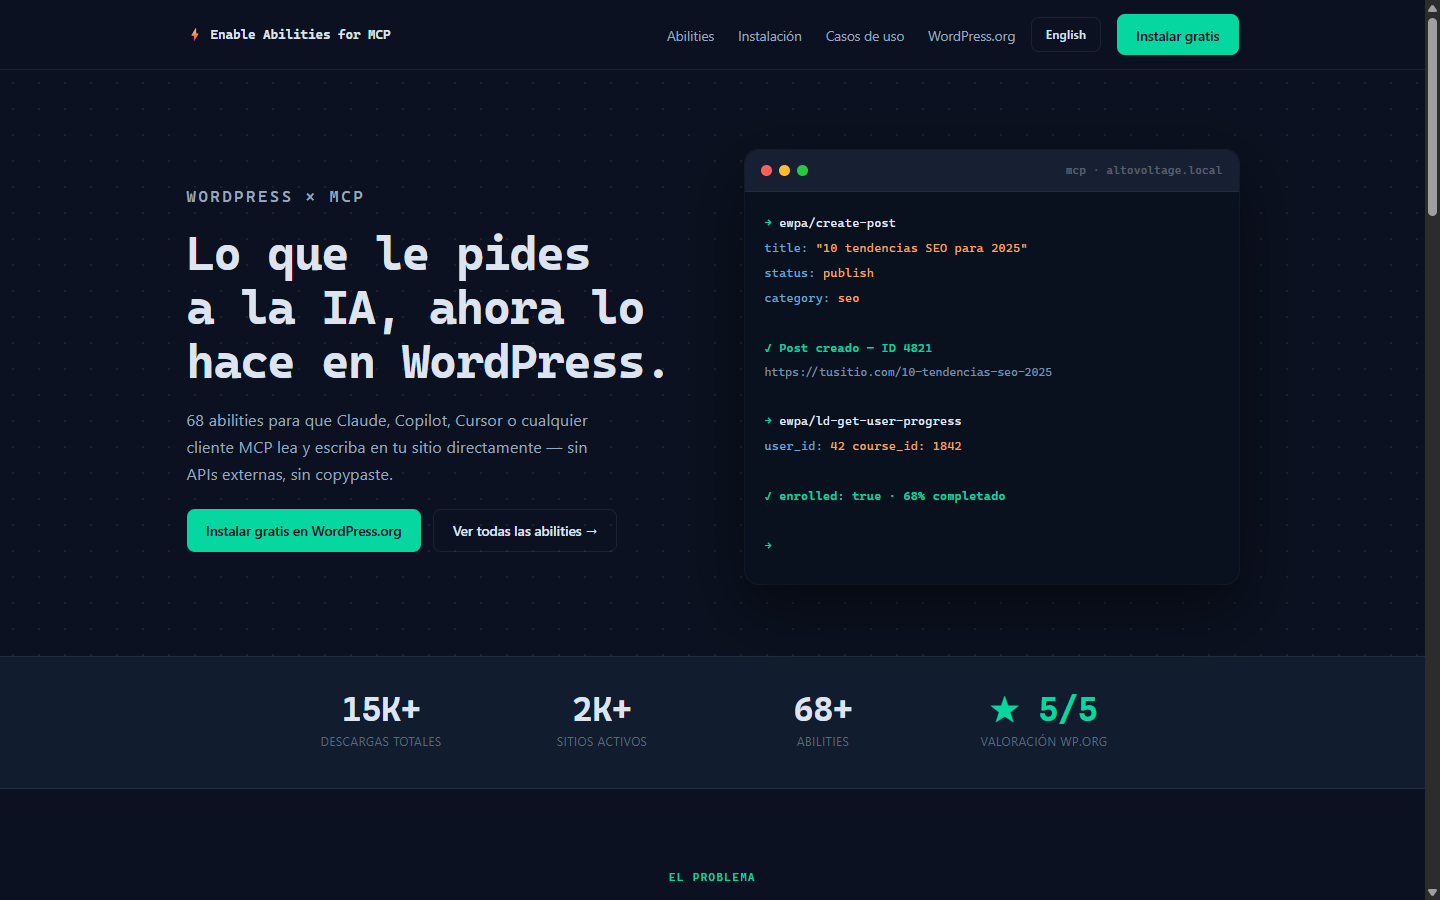
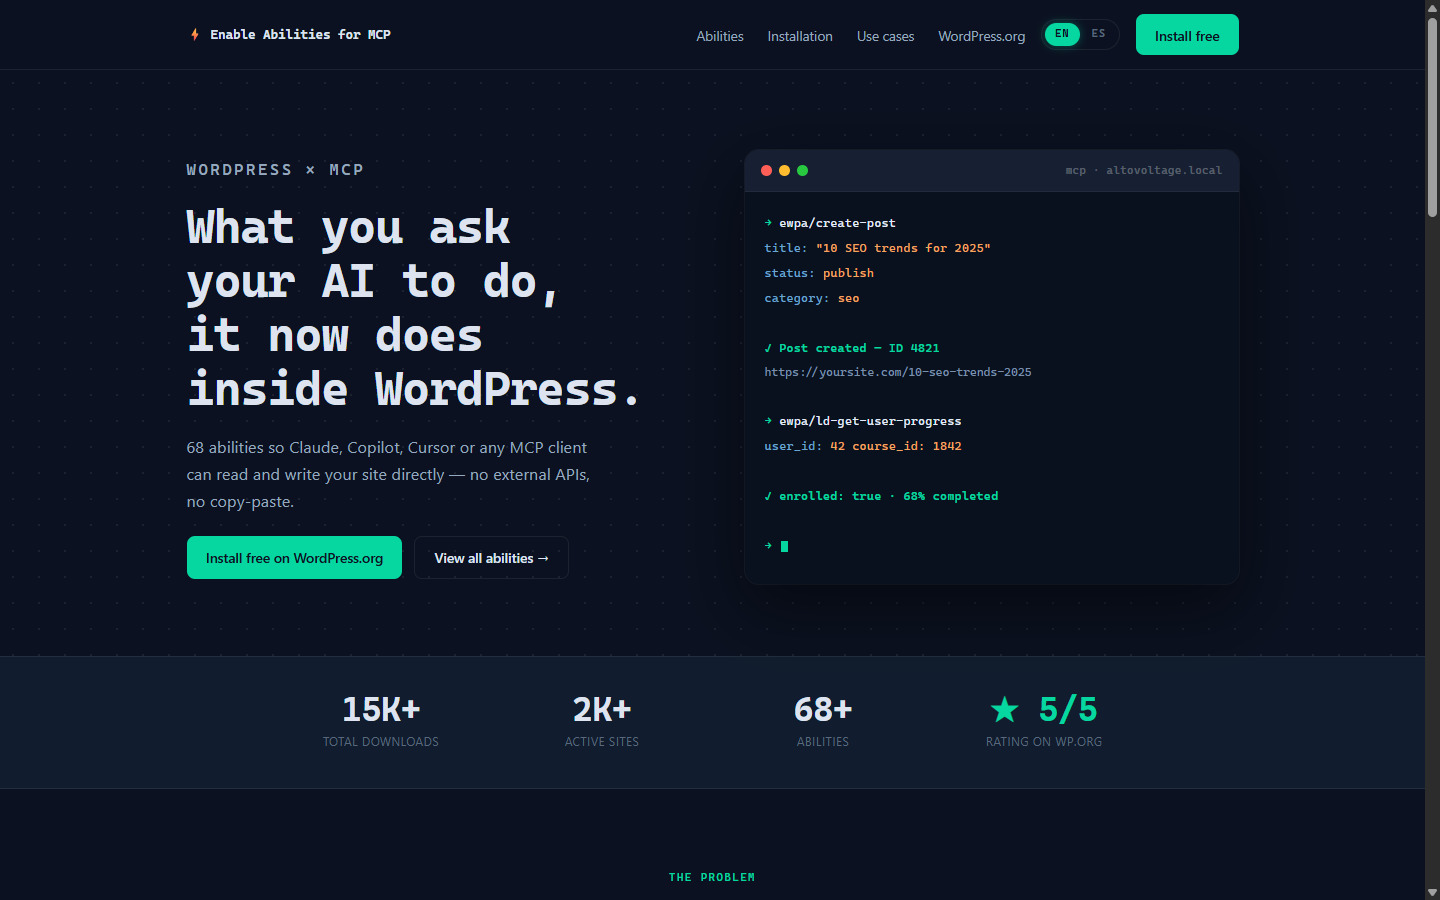
feat(i18n): make English the default locale and add EN/ES nav toggle

diff --git a/src/i18n/es.ts b/src/i18n/es.ts
@@ -14,7 +14,6 @@ export const es = {
       { label: 'WordPress.org', href: 'https://wordpress.org/plugins/enable-abilities-for-mcp/', external: true },
     ],
     cta: 'Instalar gratis',
-    langSwitch: { label: 'English', href: '/en/' },
   },
   hero: {
     eyebrow: 'WordPress × MCP',
@@ -145,6 +144,6 @@ export const es = {
       { label: 'LinkedIn',      href: 'https://www.linkedin.com/in/fabio-montenegro/' },
     ],
   },
-} as const;
+};
 
 export type LandingT = typeof es;

diff --git a/src/i18n/en.ts b/src/i18n/en.ts
@@ -16,7 +16,6 @@ export const en: LandingT = {
       { label: 'WordPress.org', href: 'https://wordpress.org/plugins/enable-abilities-for-mcp/', external: true },
     ],
     cta: 'Install free',
-    langSwitch: { label: 'Español', href: '/' },
   },
   hero: {
     eyebrow: 'WordPress × MCP',

diff --git a/CLAUDE.md b/CLAUDE.md
@@ -52,8 +52,8 @@ src/
     CTA.astro
     Footer.astro
   pages/
-    index.astro        # ES route (/)
-    en/index.astro     # EN route (/en/)
+    index.astro        # EN route (/) — default language
+    es/index.astro     # ES route (/es/)
 ```
 
 ## i18n Pattern
@@ -70,11 +70,13 @@ const { t } = Astro.props;
 
 Pages pass the locale object down:
 ```astro
-// src/pages/index.astro  → import { es } from '../i18n/es'; const t = es;
-// src/pages/en/index.astro → import { en } from '../../i18n/en'; const t = en;
+// src/pages/index.astro  → import { en } from '../i18n/en'; const t = en;
+// src/pages/es/index.astro → import { es } from '../../i18n/es'; const t = es;
 ```
 
-To add a new language: create `src/i18n/fr.ts` implementing `LandingT`, add `src/pages/fr/index.astro`.
+English is the default language at `/`; Spanish lives at `/es/`. The old `/en/` URL redirects to `/` (see `redirects` in `astro.config.mjs`). The Nav renders an EN/ES pill toggle driven by `t.lang`. Note: `es.ts` must NOT use `as const` — `LandingT` needs widened string types so other locales can implement it.
+
+To add a new language: create `src/i18n/fr.ts` implementing `LandingT`, add `src/pages/fr/index.astro`, and add the option to the Nav toggle.
 
 ## Plugin Facts (keep accurate)
 

diff --git a/README.md b/README.md
@@ -2,7 +2,7 @@
 
 Marketing site for [Enable Abilities for MCP](https://wordpress.org/plugins/enable-abilities-for-mcp/), a free, open-source WordPress plugin (GPLv2) that lets Claude, Copilot, Cursor and any MCP-compatible client read and write directly on a WordPress site — 68+ abilities across 15 categories, 15K+ downloads, 5/5 rating on WordPress.org.
 
-**Live:** [mcp.fabiomontenegro.com](https://mcp.fabiomontenegro.com) (Spanish) · [/en/](https://mcp.fabiomontenegro.com/en/) (English)
+**Live:** [mcp.fabiomontenegro.com](https://mcp.fabiomontenegro.com) (English) · [/es/](https://mcp.fabiomontenegro.com/es/) (Spanish)
 
 ![Enable Abilities for MCP landing page](docs/screenshot.png)
 
@@ -32,7 +32,7 @@ src/
   i18n/          # es.ts (source of LandingT), en.ts
   layouts/       # Layout.astro — design tokens, dark/light theme
   components/    # Hero, Stats, Compare, Categories, Cases, ...
-  pages/         # index.astro (ES), en/index.astro (EN)
+  pages/         # index.astro (EN, default), es/index.astro (ES)
 ```
 
 ## Development
